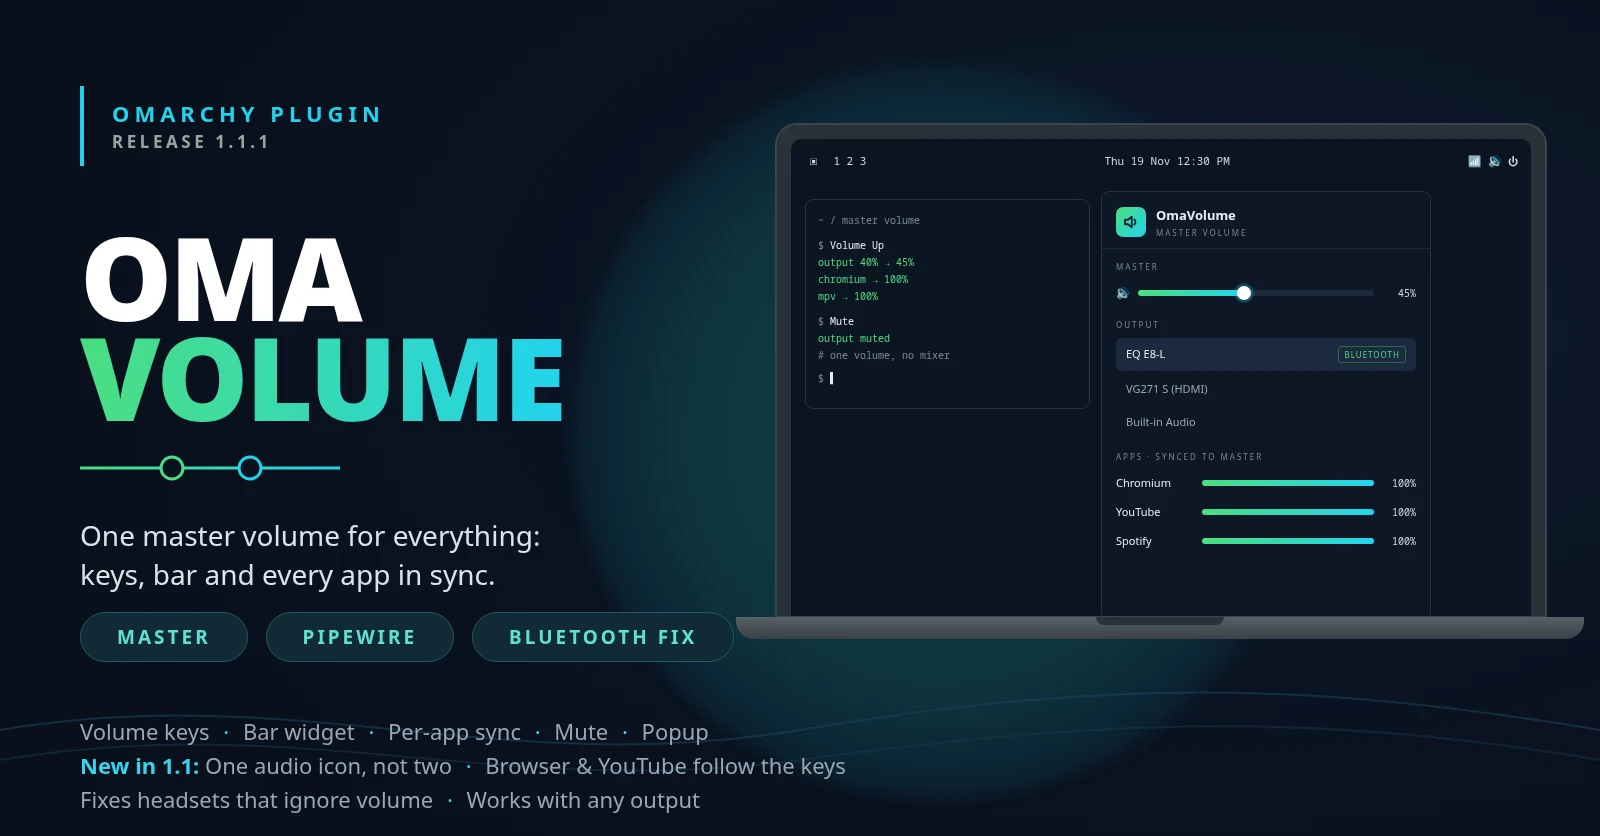
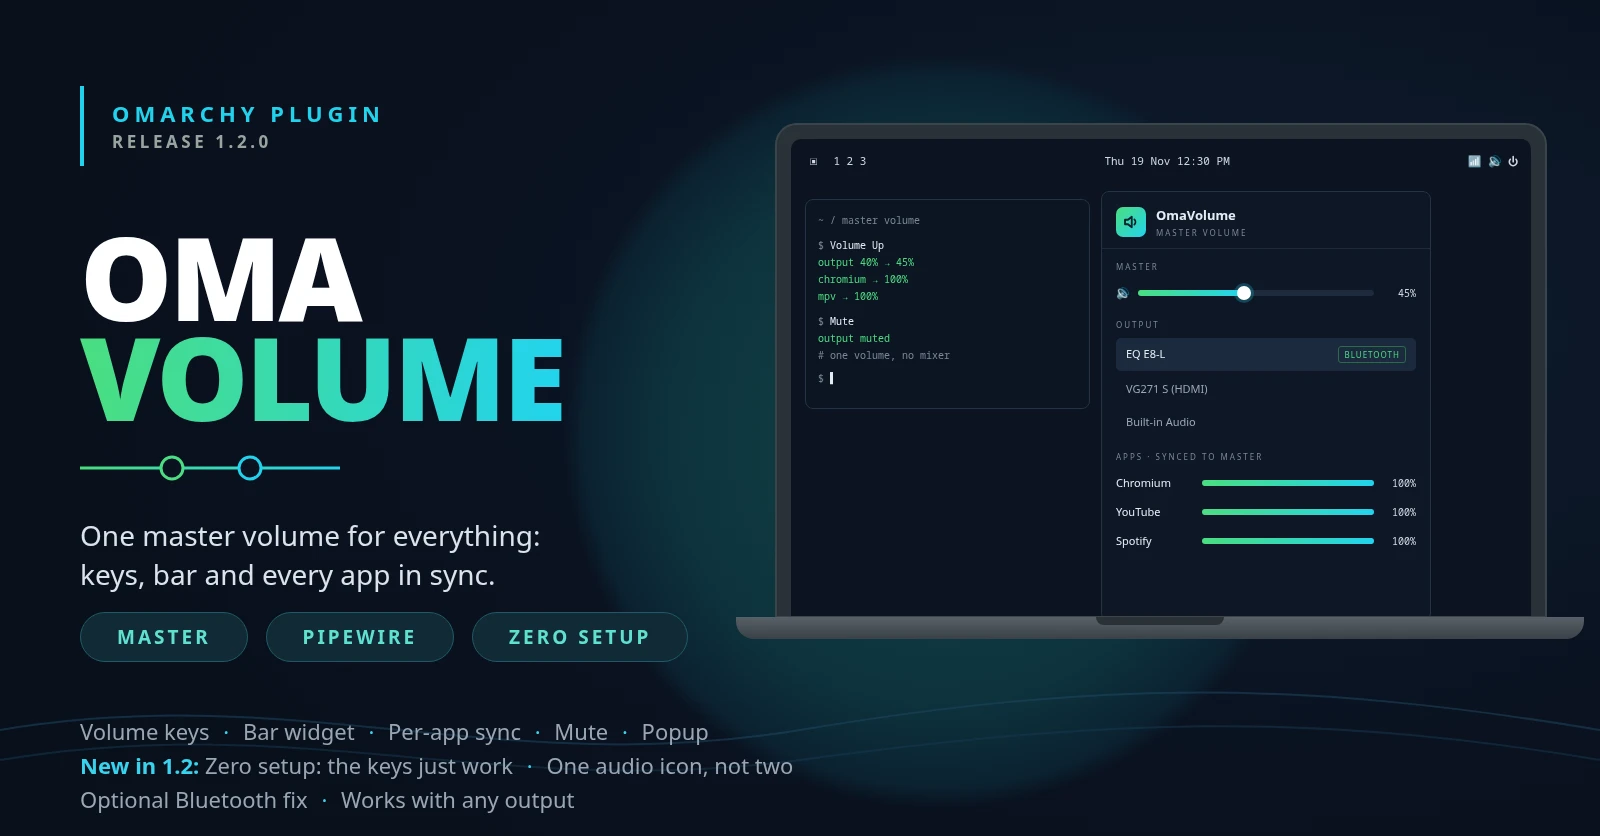
OmaVolume 1.2.0: zero setup for the volume keys
The widget syncs the apps whenever the output volume changes, from any source, so the key
bindings and the master-volume script are no longer needed. The Bluetooth fix becomes one
opt-in command (omavolume bluetooth on|off|status). install.sh and the script stay as optional
extras. Tests, README and poster updated.

Changed region(s): [[0.0625, 0.9019, 0.5312, 0.9641], [0.3125, 0.7464, 0.4375, 0.7775]]

diff --git a/Panel.qml b/Panel.qml
@@ -515,6 +515,10 @@ Panel {
   // A new stream's audio may not be ready the moment it appears: sync again shortly after the
   // list changes (debounced, so a burst of streams runs once).
   onCandidateStreamsChanged: { syncStreamsToMaster(); syncLater.restart() }
+
+  // Any change of the output volume syncs the apps, whoever made it: the volume keys, this panel's
+  // slider, another app, pavucontrol. So there is nothing to set up for the keys (no bindings, no script).
+  onOutputVolumeChanged: { syncStreamsToMaster(); syncLater.restart() }
   Timer {
     id: syncLater
     interval: 400

diff --git a/tests/test_omavolume_cli.py b/tests/test_omavolume_cli.py
@@ -181,6 +181,59 @@ class Hardening(Case):
         self.assertIn("مرحبا", open(self.path, encoding="utf-8").read())
 
 
+class Bluetooth(unittest.TestCase):
+    """`omavolume bluetooth on|off|status`: optional, and never touches the real WirePlumber config."""
+
+    def setUp(self):
+        self.home = tempfile.mkdtemp()
+        self.file = os.path.join(self.home, ".config", "wireplumber", "wireplumber.conf.d", "51-bluez-software-volume.conf")
+
+    def tool(self, *args):
+        env = dict(os.environ, HOME=self.home, XDG_RUNTIME_DIR=tempfile.gettempdir())
+        return subprocess.run([sys.executable, "-I", SCRIPT, "bluetooth", *args], capture_output=True, text=True, env=env)
+
+    def test_off_by_default(self):
+        self.assertEqual(self.tool("status").stdout.strip(), "off")
+        self.assertFalse(os.path.exists(self.file))
+
+    def test_on_writes_the_setting_and_says_how_to_apply_it(self):
+        out = self.tool("on")
+        self.assertEqual(out.returncode, 0, out.stderr)
+        self.assertIn("bluez5.enable-hw-volume = false", open(self.file).read())
+        self.assertIn("restart wireplumber", out.stdout)
+        self.assertEqual(self.tool("status").stdout.strip(), "on")
+
+    def test_on_twice_changes_nothing(self):
+        self.tool("on")
+        before = open(self.file).read()
+        self.assertIn("already on", self.tool("on").stdout)
+        self.assertEqual(open(self.file).read(), before)
+
+    def test_a_different_file_is_kept_as_a_backup(self):
+        os.makedirs(os.path.dirname(self.file))
+        with open(self.file, "w") as f:
+            f.write("# mine\n")
+        self.tool("on")
+        backups = glob.glob(self.file + ".bak-*")
+        self.assertEqual(len(backups), 1)
+        self.assertEqual(open(backups[0]).read(), "# mine\n")
+
+    def test_off_removes_only_its_own_file(self):
+        self.tool("on")
+        self.assertEqual(self.tool("off").returncode, 0)
+        self.assertFalse(os.path.exists(self.file))
+        self.assertIn("already off", self.tool("off").stdout)
+        os.makedirs(os.path.dirname(self.file), exist_ok=True)
+        with open(self.file, "w") as f:
+            f.write("# somebody else's file\n")
+        out = self.tool("off")
+        self.assertNotEqual(out.returncode, 0)
+        self.assertTrue(os.path.exists(self.file))
+
+    def test_a_bad_action_is_refused(self):
+        self.assertNotEqual(self.tool("sideways").returncode, 0)
+
+
 class MarkerLocation(unittest.TestCase):
     def test_the_real_shell_json_keeps_its_marker_in_the_state_folder(self):
         loader = importlib.machinery.SourceFileLoader("omavolume_tool", SCRIPT)

diff --git a/README.md b/README.md
@@ -13,14 +13,27 @@ OmaVolume makes the output volume the only one that matters.
   state (a muted tab stays muted) and the speaker-tuning stream. This is the "master"
   part: a stream you turn down in the per-app mixer goes back to 100% at the next volume
   change. Set `masterSync` to `false` (see Settings) to keep the mixer's levels.
-- **Volume keys**: `master-volume` runs Omarchy's own volume command (with its
-  on-screen popup) and does the same sync, reading the stream list once per key press.
-- **Bluetooth fix**: some headsets ignore the hardware (AVRCP) volume PipeWire sends,
-  so only mute worked. A small WirePlumber setting makes PipeWire apply the volume itself.
-  It applies to **every** Bluetooth device, not just the broken one: a headset whose own
-  buttons used to track the system volume will stop doing that. Delete the file to undo it.
+- **Volume keys, with nothing to set up**: the widget syncs the apps whenever the output volume
+  changes, whoever changed it: the volume keys, this panel's slider, another app, pavucontrol.
+  No key bindings and no script are needed.
+- **Bluetooth fix (optional)**: some headsets ignore the hardware (AVRCP) volume PipeWire sends,
+  so only mute works. `python3 -I ~/.config/omarchy/plugins/blackcode.omavolume/omavolume bluetooth on`
+  makes PipeWire apply the volume itself. It applies to **every** Bluetooth device, not just the broken
+  one (a headset whose own buttons used to track the system volume will stop doing that), which is
+  why it is not switched on for you. `bluetooth off` undoes it.
 
 **Compatibility:** works with Omarchy 4.5 (checked on 4.5.0-3: manifest validation, the plugin's own tests, and every Omarchy component, command and bar interface it uses).
+
+## What's new in 1.2.0
+
+- **Zero setup.** `omarchy plugin add ... --enable` is the whole install. The volume keys now sync the apps with no key
+  bindings and no `master-volume` script: the widget reacts to any change of the output volume. Tested on a real bar
+  with a playing stream: an app turned down to 30% or 25% went back to 100% on a volume change, through
+  `pactl` and through Omarchy's own volume command (what the default keys run); a muted app stayed muted; an app boosted
+  to 120% was left alone.
+- **Bluetooth fix is one command** (`omavolume bluetooth on|off|status`) instead of a git clone and an installer. It stays
+  opt-in because it changes every Bluetooth device.
+- `install.sh`, the `master-volume` script and the key bindings still work, and are now optional extras (see Install).
 
 ## What's new in 1.1.1
 
@@ -53,30 +66,25 @@ OmaVolume makes the output volume the only one that matters.
 
 ## Install
 
-The widget alone (the sync happens when you use the widget). It replaces Omarchy's own audio icon, so you do not get two:
-
 ```bash
 omarchy plugin add https://github.com/blackcodesh/omavolume --enable
 ```
 
-The whole thing (widget, volume keys, Bluetooth fix). Clone the repo and run the
-installer; it is safe to run again:
+That is all. The first time it runs, OmaVolume replaces Omarchy's own audio icon on the bar, so
+there is a single audio icon (see "What's new in 1.1.0"), and the volume keys sync the apps by
+themselves (see "What's new in 1.2.0"). Nothing else to install, bind or configure.
 
-```bash
-git clone https://github.com/blackcodesh/omavolume
-cd omavolume && ./install.sh
-```
+### Optional extras
 
-The installer links the plugin into `~/.config/omarchy/plugins/`, links
-`master-volume` into `~/.local/bin/`, adds the key bindings and a `SUPER + CTRL + A`
-binding that opens this widget's panel to `~/.config/hypr/bindings.lua` (once each;
-commented-out lines don't count), and installs the Bluetooth setting (a different file already
-there is kept as `...conf.bak-<time>`). It refuses to run if the plugin folder or script
-already exists as a real folder or file, for example from `omarchy plugin add`: remove that
-first. When the Bluetooth setting changes it restarts WirePlumber, which briefly drops audio
-and Bluetooth; `./install.sh --no-restart` skips that. The installer does not enable the
-widget: run `omarchy plugin enable blackcode.omavolume`. The first time it runs, it replaces Omarchy's own audio
-icon on the bar, so there is a single audio icon (see "What's new in 1.1.0").
+- **Bluetooth headsets that ignore the volume**: `omavolume bluetooth on` (see above), then
+  `systemctl --user restart wireplumber` or reconnect the headset once (`bluetooth on --restart`
+  restarts WirePlumber for you, which briefly drops audio and Bluetooth).
+- **`SUPER + CTRL + A` opening this panel**: Omarchy's own binding opens its own audio panel. To open this
+  one instead, clone the repo and run `./install.sh`. It links the plugin and the `master-volume` script into
+  place, adds the panel binding, and (for people who want it) the key bindings that run `master-volume`, which
+  are no longer needed for the sync. It also installs the Bluetooth setting. It is safe to run again and
+  refuses to run if the plugin folder or script already exists as a real folder or file (for example from
+  `omarchy plugin add`): remove that first. `./install.sh --no-restart` skips restarting WirePlumber.
 
 Also listed in the Omarchy plugin marketplace (https://plugins.omarchy.org): search for **OmaVolume**.
 
@@ -85,11 +93,11 @@ Also listed in the Omarchy plugin marketplace (https://plugins.omarchy.org): sea
 | Path | What it is |
 |------|------------|
 | `manifest.json`, `Panel.qml`, `Model.js` | The bar widget, plugin id `blackcode.omavolume` |
-| `Service.qml`, `omavolume` | First-run setup: swaps Omarchy's audio icon for this one (`setup`, `unswap`) |
-| `scripts/master-volume` | What the volume keys run |
-| `config/bindings.lua.snippet` | Key bindings appended to `bindings.lua` |
+| `Service.qml`, `omavolume` | First-run setup: swaps Omarchy's audio icon for this one (`setup`, `unswap`); the optional `bluetooth` command |
+| `scripts/master-volume` | Optional: what the key bindings from `install.sh` run (no longer needed for the sync) |
+| `config/bindings.lua.snippet` | Optional key and panel bindings appended to `bindings.lua` by `install.sh` |
 | `config/51-bluez-software-volume.conf` | WirePlumber fix for headsets that ignore hardware volume |
-| `install.sh` | Links everything into place |
+| `install.sh` | Optional: links everything into place and adds the bindings |
 
 ## Settings
 
@@ -105,12 +113,11 @@ python3 -I ~/.config/omarchy/plugins/blackcode.omavolume/omavolume unswap
 omarchy plugin remove blackcode.omavolume
 ```
 
-If you used `install.sh`, also: remove the "Master volume" block and the `SUPER + CTRL + A`
-(OmaVolume panel) line from `~/.config/hypr/bindings.lua` (Omarchy's own `SUPER + CTRL + A`
-binding comes back), delete `~/.config/wireplumber/wireplumber.conf.d/51-bluez-software-volume.conf`
-and restart WirePlumber, `rm ~/.local/bin/master-volume`, and delete the link
-`~/.config/omarchy/plugins/blackcode.omavolume` (only the link: `omarchy plugin remove` on a
-linked plugin has not been tested here).
+If you switched on the Bluetooth option, run `omavolume bluetooth off` before removing the plugin (then
+restart WirePlumber). If you used the optional `install.sh`, also remove the "Master volume" block and the
+`SUPER + CTRL + A` (OmaVolume panel) line from `~/.config/hypr/bindings.lua` (Omarchy's own binding comes back),
+`rm ~/.local/bin/master-volume`, and delete the link `~/.config/omarchy/plugins/blackcode.omavolume` (only the
+link: `omarchy plugin remove` on a linked plugin has not been tested here).
 
 ## Credits and tests
 
